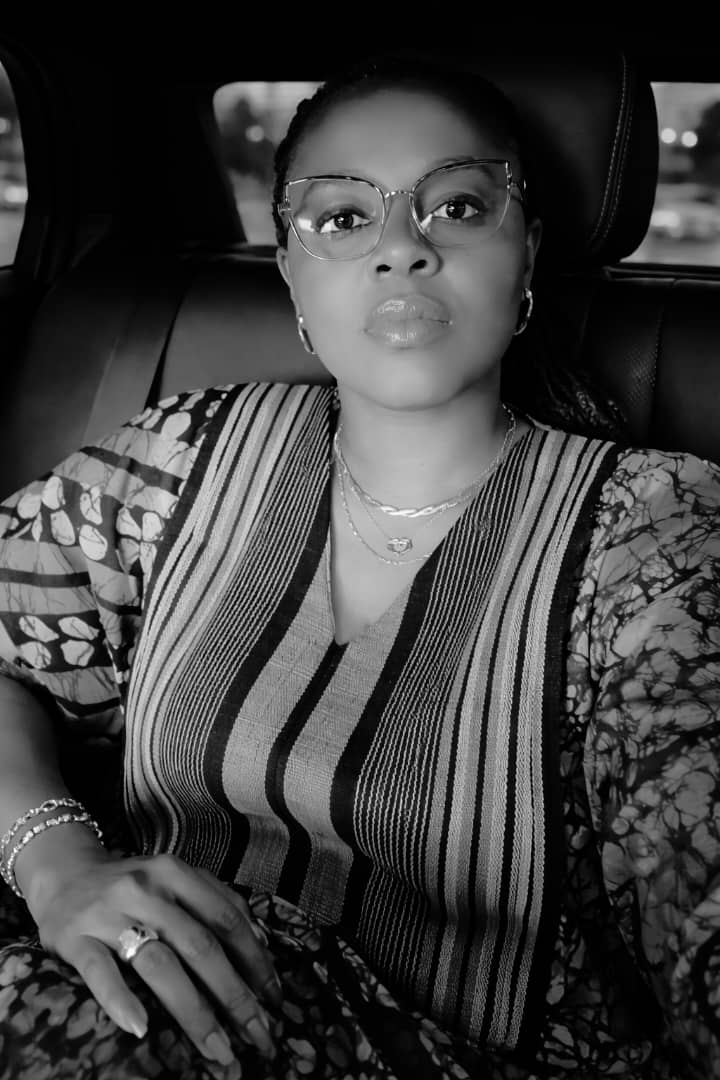
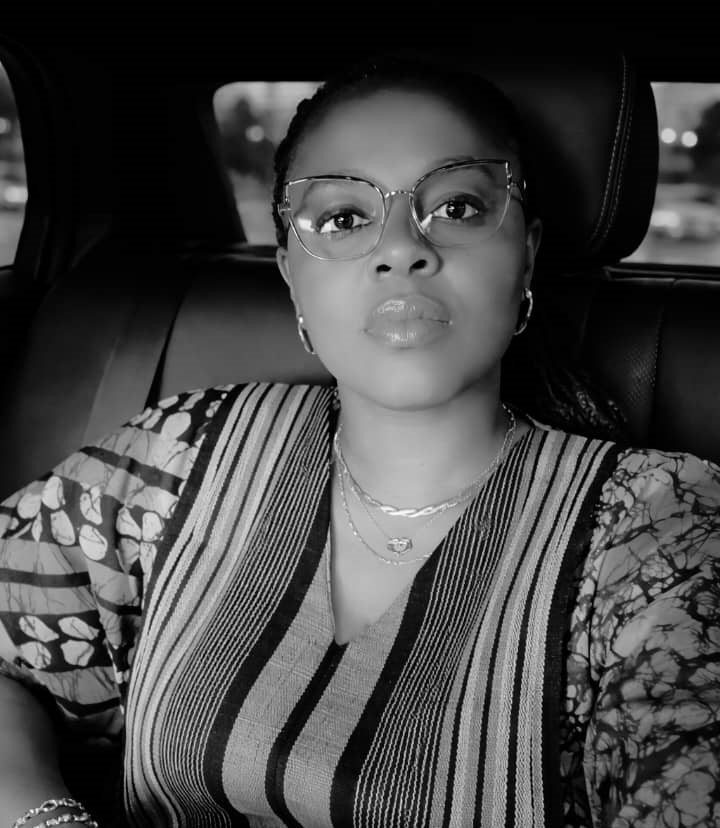
lst modiffications made

diff --git a/src/features/speakers/constants/speakers.ts b/src/features/speakers/constants/speakers.ts
@@ -27,7 +27,8 @@ import ChantalEdie from "@/core/assets/Chantal-Edie.jpeg";
 import CarineDIkambi from "@/core/assets/Carine-DIkambi.jpg";
 import LydieNgoNogol from "@/core/assets/Lydie-Ngo-Nogol.jpg";
 import AimeeCatherineMoukouri from "@/core/assets/Aimée-Catherine-Moukouri.jpg";
-import HermineDoloresBoum from "@/core/assets/intervenant6.png";
+import HermineDoloresBoum from "@/core/assets/Hermine-Dolorès-BOUM.png";
+import EkokaSidikiPatrice from "@/core/assets/Ekoka-sidiki-patrice.jpg";
 
 export const SPEAKER_PROFILES: SpeakerProfile[] = [
   {
@@ -59,11 +60,11 @@ export const SPEAKER_PROFILES: SpeakerProfile[] = [
   },
   {
     id: "hermine-dolores-boum",
-    name: "Hermines Dolores Boum",
+    name: "Hermines Dolorès Boum",
     role: "Administratrice indépendante",
     description: "Administratrice indépendante et experte en gouvernance d'entreprise.",
     imageUrl: HermineDoloresBoum.src,
-    bio: "Hermines Dolores Boum est une administratrice indépendante reconnue pour son expertise en gouvernance d'entreprise et son engagement dans le développement économique.",
+    bio: "Hermine-Dolorès BOUM est Administratrice Indépendante Certifiée par l’Institute of Directors (IoD, Royaume-Uni) et le Collège des Administrateurs de Sociétés (Québec). Elle détient également la certification ESG de The Boardroom Africa (TBRA), est Executive Coach accréditée par l’International Coaching Federation (ICF), et depuis septembre 2025, elle est titulaire du Certificat International en Gouvernance des Risques Cyber du DCRO Institute.",
     sessions: [
       { id: "j2_s3", title: "Table Ronde : Leadership féminin", href: "/programme/jour2#j2_s3" }
     ]
@@ -193,8 +194,8 @@ export const SPEAKER_PROFILES: SpeakerProfile[] = [
   {
     id: "rose-dika",
     name: "Rose Dika",
-    role: "PMO F-Union Africa Summit 2",
-    description: "PMO F-Union Africa Summit 2",
+    role: "PMO F-Union Africa Summit 2026",
+    description: "PMO F-Union Africa Summit 2026",
     imageUrl: RoseDika.src,
     bio: "",
     sessions: [
@@ -202,6 +203,22 @@ export const SPEAKER_PROFILES: SpeakerProfile[] = [
         id: "j2_s8",
         title: "ATELIER VIP : Leadership Styling",
         href: "/programme/jour2#j2_s8"
+      }
+    ]
+  },
+  {
+    id: "ekoka-sidiki-patrice",
+    name: "Mme Ekoka née Sidiki Patrice Adèle",
+    role: "Ex-Directeur Régional",
+    company: "Chambre de Commerce pour le Littoral",
+    description: "Ancienne Directrice Régionale de la Chambre de Commerce pour le Littoral, intervenante sur l'écosystème transgénérationnel.",
+    imageUrl: EkokaSidikiPatrice.src,
+    bio: "Mme Ekoka née Sidiki Patrice Adèle a été Directrice Régionale de la Chambre de Commerce pour le Littoral. Elle apporte une expertise solide en gouvernance et en accompagnement des écosystèmes entrepreneuriaux transgénérationnels, en particulier pour les femmes leaders émergentes.",
+    sessions: [
+      {
+        id: "j3_s9",
+        title: "Table ronde : L'Écosystème Transgénérationnel — construire la prochaine génération de femmes leaders",
+        href: "/programme/jour3#j3_s9"
       }
     ]
   },

diff --git a/src/features/programe/constants/index.ts b/src/features/programe/constants/index.ts
@@ -22,10 +22,11 @@ import PechensDOUMBE from "@/core/assets/pechens-doumbe.jpg";
 import PriscaHeuya from "@/core/assets/prisca-heuya.png";
 import JocelyneNgassam from "@/core/assets/jocelyne-ngassam.jpg";
 import RoseDika from "@/core/assets/rose_dika.png";
-import WilfriedDjopa from "@core/assets/wilfried_djopa.jpg";
+import WilfriedDjopa from "@/core/assets/wilfried_djopa.jpg";
 import CarineDIkambi from "@/core/assets/Carine-DIkambi.jpg";
 import LydieNgoNogol from "@/core/assets/Lydie-Ngo-Nogol.jpg";
 import AimeeCatherineMoukouri from "@/core/assets/Aimée-Catherine-Moukouri.jpg";
+import EkokaSidikiPatrice from "@/core/assets/Ekoka-sidiki-patrice.jpg";
 
 export const JOUR_1_SESSIONS: Session[] = [
   {
@@ -372,7 +373,14 @@ export const JOUR_3_SESSIONS: Session[] = [
     startTime: "14:00",
     endTime: "15:00",
     cible: "Tous",
-    speakers: []
+    speakers: [
+      {
+        id: "sp_j3_9_1",
+        name: "Mme Ekoka née Sidiki Patrice Adèle",
+        role: "Ex-Directeur Régional",
+        imageUrl: EkokaSidikiPatrice.src
+      }
+    ]
   },
   {
     id: "j3_s10",

diff --git a/src/features/landing/components/HeroSection.tsx b/src/features/landing/components/HeroSection.tsx
@@ -182,7 +182,7 @@ export const HeroSection = () => {
             <Button
               href="https://billeterie.f-union.org/"
               variant="white"
-              className="w-full sm:w-auto px-6 py-3 text-xs shadow-md"
+              className="w-full sm:w-auto px-6 py-3 text-xs shadow-md whitespace-nowrap"
             >
               Réserver ma place
             </Button>